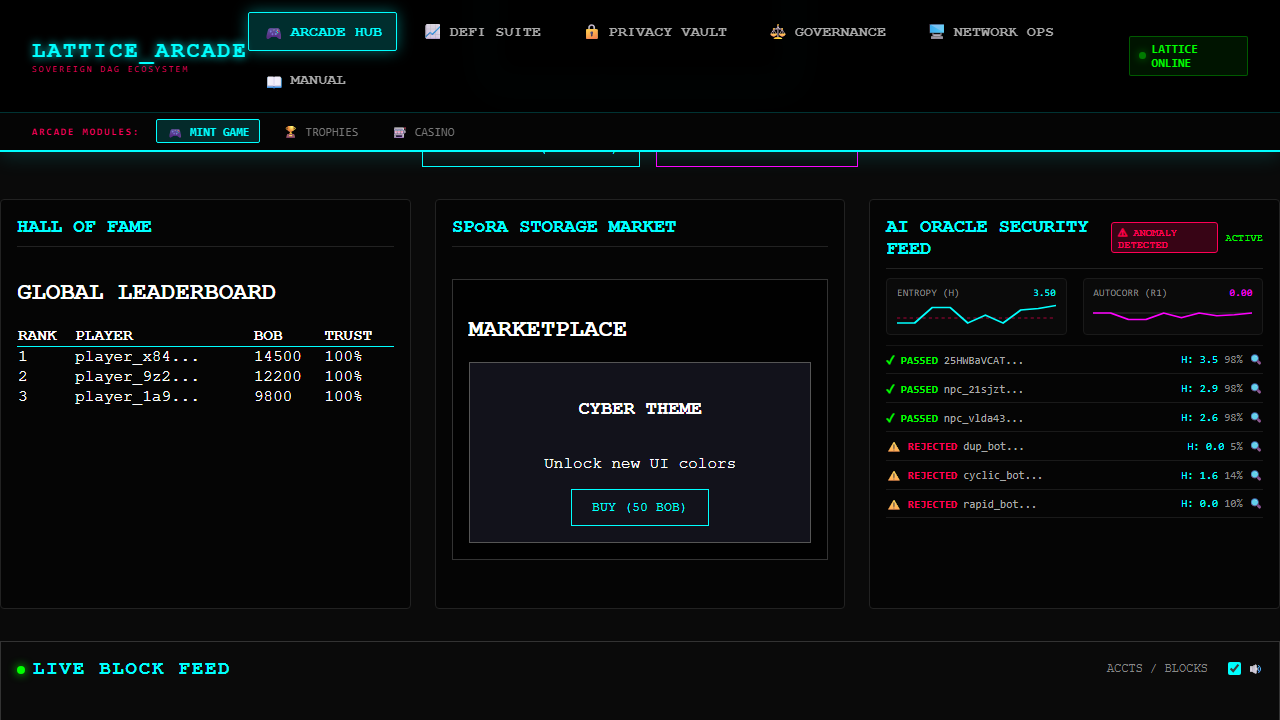
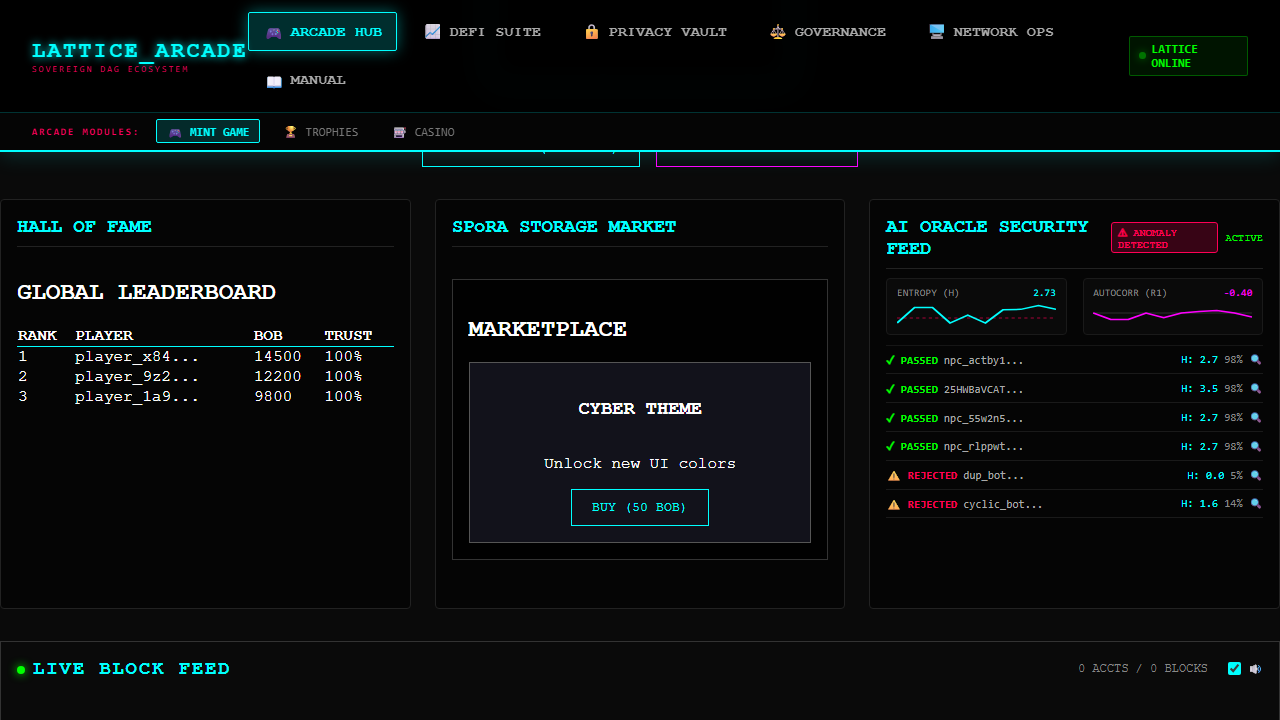
Release v8.117.13: SP1 daemon/prover status in SystemStatus via /sp1/status endpoint

diff --git a/frontend/src/pages/SystemStatus.jsx b/frontend/src/pages/SystemStatus.jsx
@@ -15,7 +15,9 @@ export function SystemStatus() {
         zkService: 'Checking...',
         supernode: 'Checking...',
         lattice: 'Checking...',
-        storageWasm: 'Checking...'
+        storageWasm: 'Checking...',
+        sp1Verifier: 'Checking...',
+        sp1Prover: 'Checking...'
     });
     const [peers, setPeers] = useState({});
     const [networkRoot, setNetworkRoot] = useState('0x...');
@@ -138,6 +140,18 @@ export function SystemStatus() {
             setServices(s => ({ ...s, supernode: 'ONLINE' }));
         } catch {
             setServices(s => ({ ...s, supernode: 'OFFLINE' }));
+        }
+
+        try {
+            const res = await fetch(`${API_URL}/sp1/status`);
+            const sp1 = await res.json();
+            setServices(s => ({
+                ...s,
+                sp1Verifier: sp1.verifierDaemon ? `ONLINE (${sp1.daemonAddr})` : 'OFFLINE (auto-recovery on next proof)',
+                sp1Prover: sp1.proverSidecar ? `ONLINE (${sp1.proverUrl})` : 'OFFLINE (Oracle fallback active)'
+            }));
+        } catch {
+            setServices(s => ({ ...s, sp1Verifier: 'UNKNOWN', sp1Prover: 'UNKNOWN' }));
         }
 
         try {
@@ -278,6 +292,16 @@ export function SystemStatus() {
                     <h3>GO STORAGE WASM KERNEL</h3>
                     <p>STATUS: {services.storageWasm}</p>
                     <p className="detail">Browser-side encryption and erasure coding runtime for zero-trust upload preprocessing.</p>
+                </div>
+                <div className={`status-card ${services.sp1Verifier.startsWith('ONLINE') ? 'online' : 'offline'}`} title="SP1 verifier daemon (WSL, port 9823): verifies compressed Proof-of-Play proofs in about a second. Auto-recovers on the next native submission if WSL restarted.">
+                    <h3>SP1 VERIFIER DAEMON</h3>
+                    <p>STATUS: {services.sp1Verifier}</p>
+                    <p className="detail">Cached-setup RISC-V proof verification (compressed SP1 proofs). Start: scripts/start-sp1-daemon.ps1.</p>
+                </div>
+                <div className={`status-card ${services.sp1Prover.startsWith('ONLINE') ? 'online' : 'offline'}`} title="SP1 prover sidecar (WSL, port 9824): the Dashboard mint flow asks it for a real ZK proof of your game trace. Proving takes minutes; without it, minting uses the AI Oracle audit.">
+                    <h3>SP1 PROVER SIDECAR</h3>
+                    <p>STATUS: {services.sp1Prover}</p>
+                    <p className="detail">Produces real compressed SP1 proofs for Proof-of-Play minting. Start: scripts/start-sp1-prover.ps1.</p>
                 </div>
             </div>
 

diff --git a/go-game-server/main.go b/go-game-server/main.go
@@ -199,6 +199,7 @@ func main() {
 	mux.HandleFunc("/market/accept", service.handleAcceptBid)
 	mux.HandleFunc("/governance/audit", service.handleGovernanceAudit)
 	mux.HandleFunc("/oracle/audits", service.handleOracleAudits)
+	mux.HandleFunc("/sp1/status", service.handleSP1Status)
 
 	log.Printf("[go-game-server] listening on :%s", cfg.Port)
 	if err := http.ListenAndServe(":"+cfg.Port, withCORS(mux)); err != nil {
@@ -368,6 +369,37 @@ func (s *Service) handleStatus(w http.ResponseWriter, r *http.Request) {
 		version = strings.TrimSpace(string(data))
 	}
 	writeJSON(w, http.StatusOK, map[string]interface{}{"status": "online", "service": "Go Game Server orchestrator", "version": version})
+}
+
+// handleSP1Status reports reachability of the SP1 verifier daemon
+// (raw TCP, port 9823 — browsers cannot dial it directly) and the prover
+// sidecar (HTTP /health, port 9824) so the dashboard can surface them.
+func (s *Service) handleSP1Status(w http.ResponseWriter, r *http.Request) {
+	daemonAddr := os.Getenv("SP1_VERIFIER_ADDR")
+	if daemonAddr == "" {
+		daemonAddr = "127.0.0.1:9823"
+	}
+	daemonUp := false
+	if conn, err := net.DialTimeout("tcp", daemonAddr, 2*time.Second); err == nil {
+		conn.Close()
+		daemonUp = true
+	}
+	proverURL := os.Getenv("SP1_PROVER_URL")
+	if proverURL == "" {
+		proverURL = "http://127.0.0.1:9824"
+	}
+	proverUp := false
+	client := &http.Client{Timeout: 2 * time.Second}
+	if resp, err := client.Get(proverURL + "/health"); err == nil {
+		resp.Body.Close()
+		proverUp = resp.StatusCode == http.StatusOK
+	}
+	writeJSON(w, http.StatusOK, map[string]interface{}{
+		"verifierDaemon": daemonUp,
+		"proverSidecar":  proverUp,
+		"daemonAddr":     daemonAddr,
+		"proverUrl":      proverURL,
+	})
 }
 
 func (s *Service) handleBankroll(w http.ResponseWriter, r *http.Request) {

diff --git a/go-game-server/main_test.go b/go-game-server/main_test.go
@@ -802,6 +802,29 @@ func TestHandleSubmitProof_CyclicMacroAndDiversityRatio(t *testing.T) {
 	}
 }
 
+func TestHandleSP1Status(t *testing.T) {
+	service := newTestService(t)
+	req := httptest.NewRequest(http.MethodGet, "/sp1/status", nil)
+	rec := httptest.NewRecorder()
+	service.handleSP1Status(rec, req)
+	if rec.Code != http.StatusOK {
+		t.Fatalf("expected 200 from /sp1/status, got %d", rec.Code)
+	}
+	var body map[string]interface{}
+	if err := json.Unmarshal(rec.Body.Bytes(), &body); err != nil {
+		t.Fatalf("failed to decode sp1 status: %v", err)
+	}
+	if _, ok := body["verifierDaemon"].(bool); !ok {
+		t.Fatalf("expected boolean verifierDaemon, got %v", body)
+	}
+	if _, ok := body["proverSidecar"].(bool); !ok {
+		t.Fatalf("expected boolean proverSidecar, got %v", body)
+	}
+	if body["daemonAddr"] != "127.0.0.1:9823" {
+		t.Fatalf("expected default daemon addr, got %v", body["daemonAddr"])
+	}
+}
+
 func TestWindowsPathToWSL(t *testing.T) {
 	if got := windowsPathToWSL(`C:\Users\hyper\workspace\bobcoin\proof-of-play\program\elf\proof-of-play`); got != "/mnt/c/Users/hyper/workspace/bobcoin/proof-of-play/program/elf/proof-of-play" {
 		t.Fatalf("unexpected WSL path conversion: %q", got)

diff --git a/CHANGELOG.md b/CHANGELOG.md
@@ -1,5 +1,9 @@
 # Changelog
 
+## [8.117.13] - 2026-11-14
+### Added
+- **SP1 services in the dashboard**: the System Status page (Network Ops) now shows SP1 Verifier Daemon and SP1 Prover Sidecar cards with plain-language descriptions, start-script guidance, and tooltips — previously the entire SP1 stack was invisible in the UI. Backed by a new `GET /sp1/status` on the Go game-server (browsers cannot dial the daemon's raw TCP port directly), with a maintained Go test (`TestHandleSP1Status`). Note the cards read OFFLINE for the first ~2 minutes after launch while SP1 setup runs.
+
 ## [8.117.12] - 2026-11-14
 ### Evaluated
 - **Groth16 proof mode: not viable in this environment.** The prover gained a `--mode core|compressed|groth16` flag, but Groth16 proving failed after 41 CPU-minutes: SP1 v6 delegates Groth16 to a Docker image (`ghcr.io/succinctlabs/sp1-gnark:v6.1.0`) and the registry denied the pull. The circuit artifacts themselves downloaded fine. **Decision: Compressed remains the default and recommended mode** (1.27 MB proofs, ~1s daemon verification). Revisit Groth16 only with Docker registry access or a Succinct prover-network key. Driver kept as `scripts/wsl-sp1-groth16.sh`.

diff --git a/VERSION.md b/VERSION.md
@@ -1,1 +1,1 @@
-8.117.12
+8.117.13
